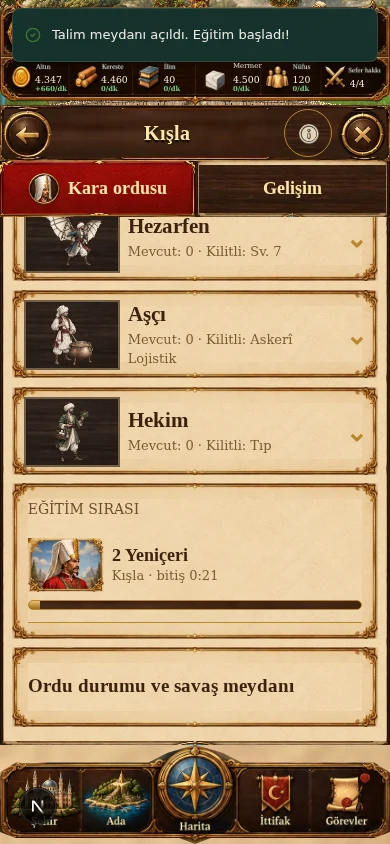
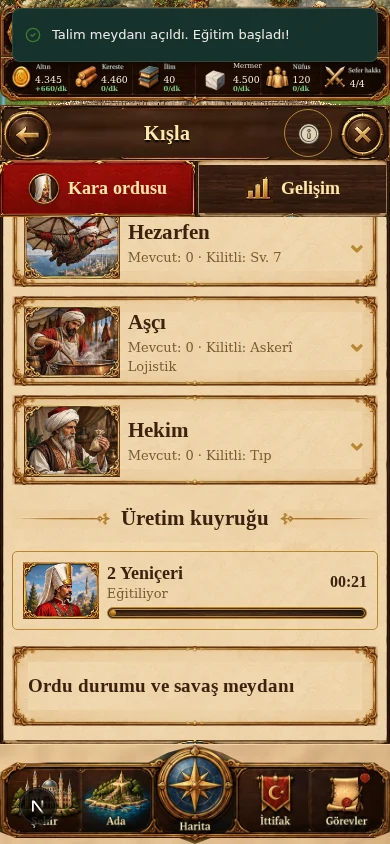
Finish barracks reference controls portraits ornaments and production queue

diff --git a/payitaht/app/styles/49-barracks-register.css b/payitaht/app/styles/49-barracks-register.css
@@ -206,3 +206,47 @@
 .game-shell.has-page .bp.bp-of-kisla :is(.sk-nn-now b,.sk-nn-next b) { font: 700 20px/1.3 'Payitaht Profile Roman',Georgia,serif; }
 .game-shell.has-page .bp.bp-of-kisla .sk-nn-next b { color: var(--c-ink); }
 .game-shell.has-page .bp.bp-of-kisla .sk-nn small { color: var(--c-ink-muted); }
+
+/* Final reference details: real painted controls, every portrait, production queue. */
+.game-shell.has-page .bp.bp-of-kisla {
+  --barracks-minus: url('../../public/images/game/ui/barracks/minus-button.webp');
+  --barracks-plus: url('../../public/images/game/ui/barracks/plus-button.webp');
+  --barracks-thumb: url('../../public/images/game/ui/barracks/slider-thumb.webp');
+  --barracks-max: url('../../public/images/game/ui/barracks/max-frame.webp');
+  --barracks-track: url('../../public/images/game/ui/barracks/slider-wood.webp');
+  --barracks-fill: url('../../public/images/game/ui/barracks/slider-gold.webp');
+  --barracks-ornament: url('../../public/images/game/ui/barracks/heading-ornament.webp');
+}
+.game-shell.has-page .bp.bp-of-kisla .barracks-development-icon { width: 28px; height: 28px; object-fit: contain; }
+.game-shell.has-page .bp.bp-of-kisla :is(.barracks-roster > h2,.barracks-production-queue > h2) { display: flex; align-items: center; justify-content: center; gap: 10px; color: var(--c-ink); font: 700 22px/1.3 'Payitaht Profile Roman',Georgia,serif; }
+.game-shell.has-page .bp.bp-of-kisla :is(.barracks-roster > h2,.barracks-production-queue > h2)::before,
+.game-shell.has-page .bp.bp-of-kisla :is(.barracks-roster > h2,.barracks-production-queue > h2)::after { content: ''; flex: 1 1 32px; max-width: 100px; height: 18px; background: var(--barracks-ornament) center / 100% 100% no-repeat; }
+.game-shell.has-page .bp.bp-of-kisla :is(.barracks-roster > h2,.barracks-production-queue > h2)::after { transform: scaleX(-1); }
+.game-shell.has-page .bp.bp-of-kisla .barracks-painted-portrait { height: 72px; object-fit: contain; }
+.game-shell.has-page .bp.bp-of-kisla .barracks-entry.is-locked .barracks-painted-portrait { filter: saturate(.75); }
+.game-shell.has-page .bp.bp-of-kisla .barracks-training .unit-portrait { width: 76px; height: 57px; border: 0; background: none; }
+.game-shell.has-page .bp.bp-of-kisla .barracks-training .unit-portrait .barracks-painted-portrait { width: 76px; height: 57px; }
+.game-shell.has-page .bp.bp-of-kisla .barracks-training .unit-top { grid-template-columns: 76px minmax(0,1fr) 44px; }
+.game-shell.has-page .bp.bp-of-kisla .barracks-quantity > label { display: flex; align-items: center; justify-content: space-between; gap: 12px; }
+.game-shell.has-page .bp.bp-of-kisla .barracks-quantity output { min-width: 66px; padding: 1px 12px; border: 1px solid var(--c-gold-deep); border-radius: 3px; text-align: center; font-size: 18px; }
+.game-shell.has-page .bp.bp-of-kisla .barracks-quantity > input[type='range']::-webkit-slider-runnable-track { height: 14px; border: 3px double var(--c-gold-deep); border-radius: 10px; background: var(--barracks-fill) left / var(--fill) 100% no-repeat,var(--barracks-track) center / 100% 100%; box-shadow: inset 0 2px 3px #0008,0 1px 1px #fff9; }
+.game-shell.has-page .bp.bp-of-kisla .barracks-quantity > input[type='range']::-webkit-slider-thumb { width: 32px; height: 32px; margin-top: -12px; border: 0; border-radius: 50%; background: var(--barracks-thumb) center / 100% 100%; box-shadow: 0 2px 3px #0007; }
+.game-shell.has-page .bp.bp-of-kisla .barracks-quantity > input[type='range']::-moz-range-track { height: 10px; border: 3px double var(--c-gold-deep); border-radius: 10px; background: var(--barracks-fill) left / var(--fill) 100% no-repeat,var(--barracks-track) center / 100% 100%; }
+.game-shell.has-page .bp.bp-of-kisla .barracks-quantity > input[type='range']::-moz-range-thumb { width: 32px; height: 32px; border: 0; border-radius: 50%; background: var(--barracks-thumb) center / 100% 100%; box-shadow: 0 2px 3px #0007; }
+.game-shell.has-page .bp.bp-of-kisla .barracks-quantity > input:disabled { opacity: 1; }
+.game-shell.has-page .bp.bp-of-kisla .barracks-count-controls > button { width: 46px; height: 46px; border: 0; background: var(--barracks-minus) center / 100% 100% no-repeat; color: transparent; box-shadow: none; }
+.game-shell.has-page .bp.bp-of-kisla .barracks-count-controls > button:nth-child(3) { background-image: var(--barracks-plus); }
+.game-shell.has-page .bp.bp-of-kisla .barracks-count-controls { grid-template-columns: 46px minmax(50px,1fr) 46px 80px; gap: 7px; }
+.game-shell.has-page .bp.bp-of-kisla .barracks-count-controls > button:last-child { width: 80px; height: 46px; border: 0 solid transparent; border-image: var(--barracks-max) 16 22 / 8px 11px / 0 stretch; background: var(--royal-wood) center / cover; color: var(--c-gold-pale); }
+.game-shell.has-page .bp.bp-of-kisla .barracks-count-controls > button:disabled { opacity: .85; filter: saturate(.75); }
+.game-shell.has-page .bp.bp-of-kisla .drill-queue.barracks-production-queue { border: 0; border-image: none; background: none; padding: 0; margin: 12px 0 0; }
+.game-shell.has-page .bp.bp-of-kisla .barracks-production-queue > h2 { margin: 0 0 12px; font-size: 21px; }
+.game-shell.has-page .bp.bp-of-kisla .barracks-production-queue .drill-job { display: grid; grid-template-columns: 76px minmax(0,1fr) 52px; gap: 4px 8px; margin: 0 0 8px; padding: 10px; border: 1px solid var(--c-gold-deep); border-radius: 5px; background: var(--barracks-paper) center / 400px 200px; }
+.game-shell.has-page .bp.bp-of-kisla .barracks-production-queue .barracks-painted-portrait { grid-row: 1/3; align-self: center; width: 76px; height: 57px; }
+.game-shell.has-page .bp.bp-of-kisla .barracks-queue-time { align-self: center; text-align: right; color: var(--c-ink); font: 700 16px/1.3 'Payitaht Profile Roman',Georgia,serif; }
+.game-shell.has-page .bp.bp-of-kisla .barracks-production-queue .drill-bar { grid-column: 2/4; height: 12px; border: 3px double var(--c-gold-deep); border-radius: 8px; background: var(--barracks-track) center / 100% 100%; box-shadow: inset 0 2px 3px #0008; }
+.game-shell.has-page .bp.bp-of-kisla .barracks-production-queue .drill-bar > i { height: 100%; border-radius: 6px; background: var(--barracks-fill) center / 100% 100%; }
+.game-shell.has-page .bp.bp-of-kisla .barracks-queue-empty { padding: 16px 12px; margin: 0 0 8px; border: 1px solid var(--c-gold-deep); border-radius: 5px; font: 14px/1.5 Georgia,serif; text-align: center; }
+
+.game-shell.has-page .bp.bp-of-kisla .barracks-training .unit-bottom { margin-top: 4px; }
+.game-shell.has-page .bp.bp-of-kisla .bp-upgrade-button .painted-icon { filter: sepia(1) saturate(.75); }

diff --git a/payitaht/components/game/game-panels.tsx b/payitaht/components/game/game-panels.tsx
@@ -239,8 +239,7 @@ function maxRecruit(game: Game, id: UnitId) {
  * bosta oldugunu gormezse, uretiminin nicin dustugunu anlamaz.
  */
 function BarracksPortrait({ id }: { id: UnitId }) {
-  if (id === 'yeniceri' || id === 'okcu' || id === 'sipahi') return <img className="barracks-painted-portrait" src={asset(`/images/game/ui/barracks/portrait-${id}.webp`)} alt="" width={211} height={156} />
-  return <UnitFigure id={id} size={76} />
+  return <img className="barracks-painted-portrait" src={asset(`/images/game/ui/barracks/portrait-${id}.webp`)} alt="" width={288} height={216} />
 }
 
 export function ArmyPanel({ game, onRecruit, onBuild, home }: { game: Game; onRecruit: (id: UnitId, count: number) => void; onBuild: (id: BuildingId) => void; home?: BuildingId }) {
@@ -324,7 +323,7 @@ function UnitCard({ game, id, onRecruit, compact = false }: { game: Game; id: Un
   const reason = recruitReason(game, id, batch)
   const information = <>
     <div className="unit-top">
-      <span className="unit-portrait"><UnitFigure id={id} size={60} /></span>
+      <span className="unit-portrait">{compact ? <BarracksPortrait id={id} /> : <UnitFigure id={id} size={60} />}</span>
       <span><strong>{unit.name} <em className="unit-role"><Term label={ROLE_NAMES[unit.role]} /></em></strong><small>{unit.description}</small></span>
       <span className="unit-have">{game.army[id]}<small>elde</small></span>
     </div>
@@ -349,7 +348,7 @@ function UnitCard({ game, id, onRecruit, compact = false }: { game: Game; id: Un
   return <article className={`unit-card${compact ? ' barracks-training' : ''}`}>
     {compact ? <details className="barracks-unit-information"><summary>Birlik bilgisi ve savaş değerleri</summary>{information}</details> : information}
     {compact ? <div className="barracks-quantity">
-      <label htmlFor={`barracks-count-${id}`}>Üretim adedi</label>
+      <label htmlFor={`barracks-count-${id}`}>Üretim adedi <output htmlFor={`barracks-count-${id}`}>{batch}</output></label>
       <input type="range" min={1} max={Math.max(1, max)} value={batch} disabled={max < 1}
         aria-label={`${unit.name} sayısı`} style={{ ['--fill' as string]: `${((batch - 1) / Math.max(1, max - 1)) * 100}%` }} onChange={e => set(Number(e.target.value))} />
       <div className="barracks-range-limits"><span>1</span><span>En fazla {max}</span></div>
@@ -382,17 +381,19 @@ const ROLE_ROW_SET = new Set<UnitRole>(['front', 'flank', 'range', 'artillery', 
 /** Eğitim sırası: her yapının emirleri, yürüyenin ilerlemesi ve bekleyenlerin başlama anı. */
 function DrillQueue({ game, home }: { game: Game; home?: BuildingId }) {
   const jobs = game.drills.filter(j => !home || UNITS[j.id as UnitId].home === home)
-  if (!jobs.length) return null
+  if (!jobs.length && home !== 'kisla') return null
   const now = game.updatedAt
-  const clock = (ms: number) => { const t = Math.max(0, Math.ceil(ms / 1000)); return `${Math.floor(t / 60)}:${String(t % 60).padStart(2, '0')}` }
-  return <section className="drill-queue" aria-label="Eğitim sırası">
-    <span className="eyebrow">EĞİTİM SIRASI</span>
+  const clock = (ms: number) => { const t = Math.max(0, Math.ceil(ms / 1000)); return `${String(Math.floor(t / 60)).padStart(2, '0')}:${String(t % 60).padStart(2, '0')}` }
+  return <section className={`drill-queue${home === 'kisla' ? ' barracks-production-queue' : ''}`} aria-label={home === 'kisla' ? 'Üretim kuyruğu' : 'Eğitim sırası'}>
+    {home === 'kisla' ? <h2>Üretim kuyruğu</h2> : <span className="eyebrow">EĞİTİM SIRASI</span>}
+    {!jobs.length && <p className="barracks-queue-empty">Henüz üretim emri yok.</p>}
     {jobs.map((j, i) => {
       const unit = UNITS[j.id as UnitId]
       const running = j.start <= now
       return <div key={`${j.id}-${j.start}-${i}`} className={`drill-job${running ? ' is-running' : ''}`}>
         {home === 'kisla' ? <BarracksPortrait id={j.id as UnitId} /> : <UnitFigure id={j.id as UnitId} size={30} bare />}
-        <span><strong>{j.count} {unit.name}</strong><small>{BUILDINGS[unit.home].name} · {running ? `bitiş ${clock(j.end - now)}` : `sırada · ${clock(j.start - now)} sonra başlar`}</small></span>
+        <span><strong>{j.count} {unit.name}</strong><small>{home === 'kisla' ? (running ? 'Eğitiliyor' : 'Sırada') : `${BUILDINGS[unit.home].name} · ${running ? `bitiş ${clock(j.end - now)}` : `sırada · ${clock(j.start - now)} sonra başlar`}`}</small></span>
+        {home === 'kisla' && <time className="barracks-queue-time" aria-label={running ? 'Kalan süre' : 'Başlamasına kalan süre'}>{clock(running ? j.end - now : j.start - now)}</time>}
         {running && <span className="drill-bar"><i style={{ width: `${Math.min(100, (100 * (now - j.start)) / (j.end - j.start))}%` }} /></span>}
       </div>
     })}

diff --git a/payitaht/lib/game/changelog.ts b/payitaht/lib/game/changelog.ts
@@ -5,6 +5,7 @@
 export type Release = { version: string; date: string; title: string; notes: string[] }
 
 export const CHANGELOG: Release[] = [
+  { version: '0.69.0', date: '8 Ekim 2026', title: 'Kışla referansının son ayrıntıları', notes: ['16 birliğin tamamında aynı yakın plan resim ve altın köşeli çerçeve; bilgi ve kuyrukta eski figüre dönüş yok.', 'Referanstan boyalı +/−, Maks. çerçevesi, sürgü madalyonu, Gelişim simgesi ve süslü bölüm başlıkları.', 'Üretim kuyruğu portre, kalan süre ve ahşap/altın ilerleme çubuğuyla düzenlendi; yükseltme Gelişim başında kalır.'] },
   { version: '0.68.1', date: '8 Ekim 2026', title: 'Kışlada önce yükseltme', notes: ['Gelişim sekmesinde yükseltme gereksinimleri ve düğmesi en üstte; seviye etkisi ve sonraki maliyetler altında okunur.'] },
   { version: '0.68.0', date: '8 Ekim 2026', title: 'Kışlada çizimin gerçek malzemeleri', notes: ['Onaylı çizimden yakın plan asker portreleri, işlemeli pirinç çerçeveler, temiz parşömen ve kırmızı kumaş eğitim düğmesi.', 'Gelişim, eğitim sırası ve ordu bilgileri aynı görsel dilde; dikey birlik listesi ve yatay adet barı korunur.'] },
   { version: '0.67.0', date: '8 Ekim 2026', title: 'Kışlada dikey birlik defteri', notes: ['Birlikler alt alta açılan satırlarda; eğitim adedi sağa sola sürüklenen bar, sayı girişi ve yuvarlak kontrollerle seçilir.', 'Onaylanan Osmanlı çerçeveleri, ceviz–pirinç düğmeler ve kırmızı eğitim eylemi kullanılır. Kara ordusu sekmesinde yeniçeri simgesi vardır; Gelişim, HUD ve oyun hesapları korunur.'] },

diff --git a/payitaht/public/sw.js b/payitaht/public/sw.js
@@ -1,8 +1,29 @@
-const CACHE = 'payitaht-shell-v78'
+const CACHE = 'payitaht-shell-v79'
 const BASE = new URL(self.registration.scope).pathname.replace(/\/$/, '')
 const p = path => `${BASE}${path.startsWith('/') ? path : `/${path}`}`
 const ASSETS = [
   p('/images/game/ui/barracks/army-medallion.webp'),
+  p('/images/game/ui/barracks/minus-button.webp'),
+  p('/images/game/ui/barracks/plus-button.webp'),
+  p('/images/game/ui/barracks/slider-thumb.webp'),
+  p('/images/game/ui/barracks/max-frame.webp'),
+  p('/images/game/ui/barracks/development-icon.webp'),
+  p('/images/game/ui/barracks/slider-wood.webp'),
+  p('/images/game/ui/barracks/slider-gold.webp'),
+  p('/images/game/ui/barracks/heading-ornament.webp'),
+  p('/images/game/ui/barracks/portrait-topcu.webp'),
+  p('/images/game/ui/barracks/portrait-mizrakci.webp'),
+  p('/images/game/ui/barracks/portrait-azap.webp'),
+  p('/images/game/ui/barracks/portrait-sapanci.webp'),
+  p('/images/game/ui/barracks/portrait-tufekci.webp'),
+  p('/images/game/ui/barracks/portrait-kocbasi.webp'),
+  p('/images/game/ui/barracks/portrait-mancinik.webp'),
+  p('/images/game/ui/barracks/portrait-asci.webp'),
+  p('/images/game/ui/barracks/portrait-hekim.webp'),
+  p('/images/game/ui/barracks/portrait-deli.webp'),
+  p('/images/game/ui/barracks/portrait-humbaraci.webp'),
+  p('/images/game/ui/barracks/portrait-hezarfen.webp'),
+  p('/images/game/ui/barracks/portrait-lagari.webp'),
   p('/images/game/ui/barracks/paper.webp'),
   p('/images/game/ui/barracks/unit-frame.webp'),
   p('/images/game/ui/barracks/portrait-yeniceri.webp'),

diff --git a/payitaht/components/game/building-page.tsx b/payitaht/components/game/building-page.tsx
@@ -451,7 +451,7 @@ export function BuildingPage({ game, empire, id, onClose, onBuild, onFlip, onMov
       <p className="bp-desc" onClick={() => setHelp(true)}>{b.description}</p>
       {hasWork && <div className="bp-tabs" role="tablist" aria-label={`${b.name} bölümleri`}>
         <button type="button" role="tab" aria-selected={showTab === 'yapi'} onClick={() => setTab('yapi')}>{id === 'kisla' && <img className="barracks-tab-emblem" src={asset('/images/game/ui/barracks/army-medallion.webp')} alt="Yeniçeri börkü" width={32} height={32} />}{id === 'kisla' ? 'Kara ordusu' : b.name}</button>
-        <button type="button" role="tab" aria-selected={showTab === 'gelisim'} onClick={() => setTab('gelisim')}>Gelişim</button>
+        <button type="button" role="tab" aria-selected={showTab === 'gelisim'} onClick={() => setTab('gelisim')}>{id === 'kisla' && <img className="barracks-development-icon" src={asset('/images/game/ui/barracks/development-icon.webp')} alt="" width={32} height={32} />}Gelişim</button>
       </div>}
       <div ref={workRef} className="bp-tabpanel" hidden={showTab !== 'yapi'}>
         <BuildingView game={game} empire={empire} id={id} onCommand={onCommand} onRecruit={onRecruit} onNav={onNav} onBuildingNav={onBuildingNav} run={run} />

diff --git a/payitaht/lib/pwa-cache.test.ts b/payitaht/lib/pwa-cache.test.ts
@@ -11,7 +11,7 @@ test('service worker Pages base path altında kaydolur', () => {
 
 test('service worker cache sürümü ve asset yenileme stratejisi güncel', () => {
   const sw = readFileSync('public/sw.js', 'utf8')
-  assert.match(sw, /payitaht-shell-v78/)
+  assert.match(sw, /payitaht-shell-v79/)
   assert.match(sw, /self\.registration\.scope/)
   assert.match(sw, /url\.pathname\.startsWith\(gameImages\)/)
   // Yalnızca JavaScript sözdizimini derle; self çağrıları çalıştırılmaz.

diff --git a/payitaht/docs/BARRACKS-VALIDATION.md b/payitaht/docs/BARRACKS-VALIDATION.md
@@ -41,3 +41,11 @@ Güncel gerçek ekranlar `mockups/barracks-approved-live-{360,390,430}.webp`, `m
 ## 0.68.1 — yükseltme önce
 
 Gelişim'in ilk çocuğu UpgradeDock; 390×844 gerçek tarayıcıda DOM sırası ve ilk ekran görüntüsü doğrulandı. Maliyet/süre ve yükseltme düğmesi en üstte; avlu/seviye etkisi/maliyet tablosu aşağıda. Kışla/Gelişim layout taramasının altı kategorisi boş. TypeScript, CSS/unused CSS ve iki PWA önbellek testi geçti. Önceki sürümün mekanikleri ve görsel parçaları aynıdır.
+
+## 0.69.0 — tamamlanan referans parçaları
+
+- 16 portrenin tamamı 360/390/430×844 Chromium'da yüklendi; her asker satırında boyalı atlas resmi ve dört altın köşe var. Açık eğitim bilgisinde eski UnitFigure sayısı sıfır. Kuyruk aynı BarracksPortrait bileşenini kullanır.
+- Referanstan +/−, sürgü madalyonu, ahşap kanal/altın dolgu, Maks. kenarı, Gelişim simgesi; Birlikler ve Üretim kuyruğuna simetrik süsler. Adet barı 1→17; sayıdan 2 Yeniçeri emri sıraya eklendi.
+- Boş/çalışan kuyruk, Gelişim'de ilk yükseltme, açık birlik bilgisi ve üç genişlikte ilk eğitim kontrol edildi. Altı scoped layout kategorisi boş. 328 test, TypeScript, ESLint, CSS/unused CSS, V2 kriterleri ve statik export geçti.
+- Genel layout-qa tekrar çalıştırıldı; önceki HUD küçük hedefleri ve gizli kışla dokunu görünür varsayan eski kontrol nedeniyle exit 1. Kışlada raporlanan dok/canvas çakışması gizli Gelişim dokuna ait; yeni eğitim akışında dok yok. HUD'a ve bu iş dışındaki sayfalara dokunulmadı. Tüm uygulama için yeşil rapor iddia edilmez.
+- Görsel üretim: built-in imagegen, tek 4×4 portre atlası; prompt ve kaynaklar `barracks-controls-atlas.json`. Uygulamadaki kaynaklar `public/images/game/ui/barracks/`, atlas `mockups/barracks-portraits-atlas.webp`. Her portre ayrı WebP olarak kayıtlı. Kuyruktaki referans X'i için mevcut olmayan iptal mekaniği eklenmedi.

diff --git a/payitaht/docs/BARRACKS-DESIGN-MEMORY.md b/payitaht/docs/BARRACKS-DESIGN-MEMORY.md
@@ -1,3 +1,11 @@
+## Son ayrıntı düzeltmesi — 0.69.0 / SW79
+
+Kullanıcı 0.68.1'de eksik parçaları belirtti: sade sürgü/düğmeler, Gelişim ikonu ve Birlikler süslerinin yokluğu, bazı portrelerin altın köşesiz oluşu, bilgi/kuyrukta eski figürler ve farklı kuyruk düzeni. Bu eksikler artık varsayılan olarak kabul edilmez.
+
+16 kara birliği tek 4×4 yakın plan resim atlasıyla aynı ressamın dilindedir; her hücrede dört işlemeli altın köşe bulunur. `BarracksPortrait` eski UnitFigure'a dönmez. Birlik satırı, açık bilgi ve Üretim kuyruğu aynı resmi kullanır. Raster atlas `mockups/barracks-portraits-atlas.webp`, kaynak/koordinat/prompt kaydı `barracks-controls-atlas.json`.
+
++ / −, sürgü madalyonu, Maks. kenarı ve Gelişim sütun simgesi doğrudan onaylı çizimden alınır. Range gerçek dokunmatik HTML kontrolüdür; ahşap kanal ve altın dolgu aynı boyalı malzemelerdir. Birlikler ve Üretim kuyruğu başlıkları simetrik altın süslüdür. Kuyruk satırı: sol portre, ad/adet, sağda canlı kalan süre ve altta ahşap/altın ilerleme. Boş sıra da görünür. Referanstaki X için yeni iptal mekaniği eklenmez. Yükseltme ilk Gelişim bloğu olarak kalır; üst ve alt HUD korunur.
+
 ## Son yerleşim düzeltmesi — 0.68.1 / SW78
 
 Kullanıcının talebi: Gelişim sekmesinde önce eylem. Yükseltme gereksinimleri, maliyet/süre ve yükseltme düğmesi ilk bloktur. Avlu görünümü, seviye etkisi ve sonraki seviyelerin maliyet tablosu altında gelir. Yükseltme hâlâ yalnız Gelişim sekmesindedir; eğitim ekranına sabit kutu eklenmez.

diff --git a/payitaht/AGENTS.md b/payitaht/AGENTS.md
@@ -45,3 +45,7 @@ Kullanıcı 0.66.0 kışla düzenini dar buldu: eğitim ekranında sabit yüksel
 ## Kışlanın görsel düzeltmesi — 0.68.0 / SW77
 
 Kullanıcı 0.67.0 ekranını çizime benzemediği için reddetti. `docs/BARRACKS-DESIGN-MEMORY.md` başındaki 0.68.0 düzeltmesi geçerlidir: gerçek portreler ve atlas çerçeveleri, bütün alt bölümler, mevcut alt HUD. Sadece renk benzerliğine dayanarak tasarıma uygunluk iddia etme.
+
+## Kışlada eksiksiz referans ayrıntıları — 0.69.0 / SW79
+
+`docs/BARRACKS-DESIGN-MEMORY.md` başındaki 0.69.0 kuralları geçerli: 16 portrede ortak işlemeli köşeler, gerçek +/−/Maks./sürgü malzemesi, Gelişim ikonu, süslü başlıklar ve ortak Üretim kuyruğu. Kışlada eski UnitFigure fallback'i kullanma; yükseltme Gelişim'de ilk sırada kalır.
